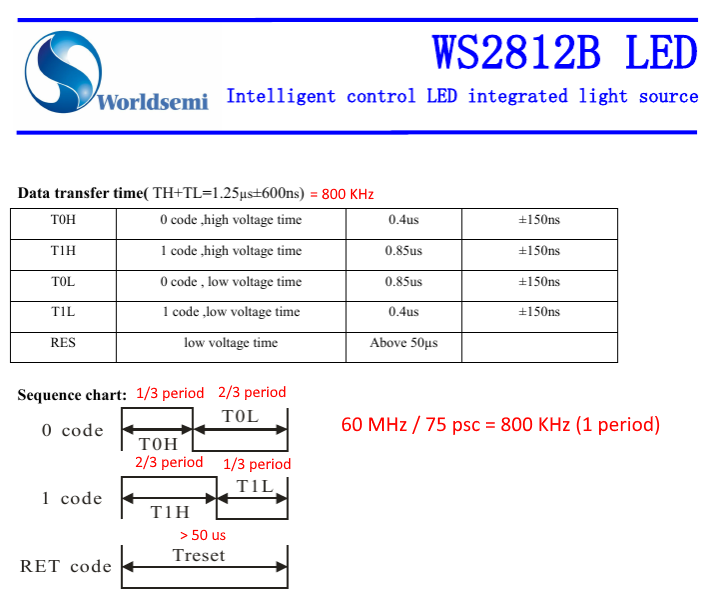
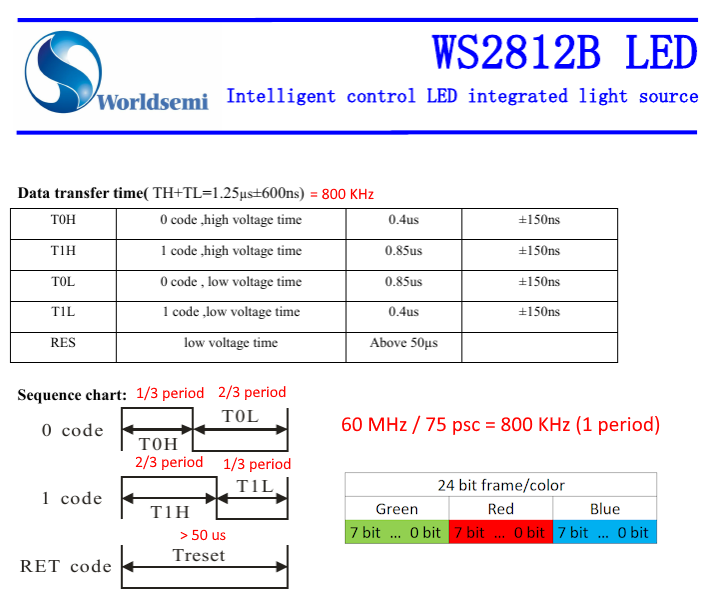
Add using DMA for filling PWM, convert from ADA to pulse_TIM3

Changed region(s): [[0.4635, 0.7736, 0.927, 0.9223]]

diff --git a/Core/Src/main.c b/Core/Src/main.c
@@ -44,16 +44,24 @@
 
 /* Private variables ---------------------------------------------------------*/
 TIM_HandleTypeDef htim3;
+DMA_HandleTypeDef hdma_tim3_ch2;
 
 /* USER CODE BEGIN PV */
 uint8_t MainUsbRxBuffer[RX_USB_DATA_SIZE],
 		MainUsbTxBuffer[TX_USB_DATA_SIZE] = "Ada\n";
+
+uint8_t PwmValue[LED_BITS_NUM]; // Buffer for TIM3 DMA; +50 for RET code (62.5 us)
+
 uint32_t RxBufferSize = 0;
+
+struct RGB_LED LED_data[LED_NUM];
+
 /* USER CODE END PV */
 
 /* Private function prototypes -----------------------------------------------*/
 void SystemClock_Config(void);
 static void MX_GPIO_Init(void);
+static void MX_DMA_Init(void);
 static void MX_TIM3_Init(void);
 /* USER CODE BEGIN PFP */
 
@@ -92,6 +100,7 @@ int main(void)
 
   /* Initialize all configured peripherals */
   MX_GPIO_Init();
+  MX_DMA_Init();
   MX_TIM3_Init();
   MX_USB_DEVICE_Init();
   /* USER CODE BEGIN 2 */
@@ -100,9 +109,6 @@ int main(void)
 
   /* Infinite loop */
   /* USER CODE BEGIN WHILE */
-  TIM3->CCR2 = 233; // Pulse channel 2
-  HAL_TIM_PWM_Start_IT(&htim3, TIM_CHANNEL_2);
-
   while (1)
   {
     /* USER CODE END WHILE */
@@ -112,9 +118,12 @@ int main(void)
 	if(RxBufferSize >= EXP_ADA_SIZE){
 		// protocol ada processing
 
-		uint32_t trim_index = Processing_rx_buffer(&MainUsbRxBuffer[0], RxBufferSize);
+		uint32_t trim_index = Processing_rx_buffer(&MainUsbRxBuffer[0], RxBufferSize, &LED_data[0]);
 
 		uint32_t shift_index = 0;
+
+		ConvertColorToTim(&LED_data[0], &PwmValue[0]);
+		HAL_TIM_PWM_Start_DMA(&htim3, TIM_CHANNEL_2, &PwmValue, LED_BITS_NUM);
 
 		while(trim_index < RxBufferSize){ // Shift all buffer closer to the beginning
 			MainUsbRxBuffer[shift_index] = MainUsbRxBuffer[trim_index];
@@ -192,9 +201,9 @@ static void MX_TIM3_Init(void)
 
   /* USER CODE END TIM3_Init 1 */
   htim3.Instance = TIM3;
-  htim3.Init.Prescaler = 7500-1;
+  htim3.Init.Prescaler = 75-1;
   htim3.Init.CounterMode = TIM_COUNTERMODE_UP;
-  htim3.Init.Period = 800-1;
+  htim3.Init.Period = 3-1;
   htim3.Init.ClockDivision = TIM_CLOCKDIVISION_DIV1;
   htim3.Init.AutoReloadPreload = TIM_AUTORELOAD_PRELOAD_ENABLE;
   if (HAL_TIM_PWM_Init(&htim3) != HAL_OK)
@@ -208,7 +217,7 @@ static void MX_TIM3_Init(void)
     Error_Handler();
   }
   sConfigOC.OCMode = TIM_OCMODE_PWM1;
-  sConfigOC.Pulse = 533;
+  sConfigOC.Pulse = 0;
   sConfigOC.OCPolarity = TIM_OCPOLARITY_HIGH;
   sConfigOC.OCFastMode = TIM_OCFAST_DISABLE;
   if (HAL_TIM_PWM_ConfigChannel(&htim3, &sConfigOC, TIM_CHANNEL_2) != HAL_OK)
@@ -219,6 +228,22 @@ static void MX_TIM3_Init(void)
 
   /* USER CODE END TIM3_Init 2 */
   HAL_TIM_MspPostInit(&htim3);
+
+}
+
+/**
+  * Enable DMA controller clock
+  */
+static void MX_DMA_Init(void)
+{
+
+  /* DMA controller clock enable */
+  __HAL_RCC_DMA1_CLK_ENABLE();
+
+  /* DMA interrupt init */
+  /* DMA1_Stream5_IRQn interrupt configuration */
+  HAL_NVIC_SetPriority(DMA1_Stream5_IRQn, 0, 0);
+  HAL_NVIC_EnableIRQ(DMA1_Stream5_IRQn);
 
 }
 

diff --git a/Core/Src/stm32f4xx_hal_msp.c b/Core/Src/stm32f4xx_hal_msp.c
@@ -24,6 +24,7 @@
 /* USER CODE BEGIN Includes */
 
 /* USER CODE END Includes */
+extern DMA_HandleTypeDef hdma_tim3_ch2;
 
 /* Private typedef -----------------------------------------------------------*/
 /* USER CODE BEGIN TD */
@@ -94,6 +95,26 @@ void HAL_TIM_PWM_MspInit(TIM_HandleTypeDef* htim_pwm)
   /* USER CODE END TIM3_MspInit 0 */
     /* Peripheral clock enable */
     __HAL_RCC_TIM3_CLK_ENABLE();
+
+    /* TIM3 DMA Init */
+    /* TIM3_CH2 Init */
+    hdma_tim3_ch2.Instance = DMA1_Stream5;
+    hdma_tim3_ch2.Init.Channel = DMA_CHANNEL_5;
+    hdma_tim3_ch2.Init.Direction = DMA_MEMORY_TO_PERIPH;
+    hdma_tim3_ch2.Init.PeriphInc = DMA_PINC_DISABLE;
+    hdma_tim3_ch2.Init.MemInc = DMA_MINC_ENABLE;
+    hdma_tim3_ch2.Init.PeriphDataAlignment = DMA_PDATAALIGN_HALFWORD;
+    hdma_tim3_ch2.Init.MemDataAlignment = DMA_MDATAALIGN_HALFWORD;
+    hdma_tim3_ch2.Init.Mode = DMA_NORMAL;
+    hdma_tim3_ch2.Init.Priority = DMA_PRIORITY_MEDIUM;
+    hdma_tim3_ch2.Init.FIFOMode = DMA_FIFOMODE_DISABLE;
+    if (HAL_DMA_Init(&hdma_tim3_ch2) != HAL_OK)
+    {
+      Error_Handler();
+    }
+
+    __HAL_LINKDMA(htim_pwm,hdma[TIM_DMA_ID_CC2],hdma_tim3_ch2);
+
   /* USER CODE BEGIN TIM3_MspInit 1 */
 
   /* USER CODE END TIM3_MspInit 1 */
@@ -142,6 +163,9 @@ void HAL_TIM_PWM_MspDeInit(TIM_HandleTypeDef* htim_pwm)
   /* USER CODE END TIM3_MspDeInit 0 */
     /* Peripheral clock disable */
     __HAL_RCC_TIM3_CLK_DISABLE();
+
+    /* TIM3 DMA DeInit */
+    HAL_DMA_DeInit(htim_pwm->hdma[TIM_DMA_ID_CC2]);
   /* USER CODE BEGIN TIM3_MspDeInit 1 */
 
   /* USER CODE END TIM3_MspDeInit 1 */

diff --git a/Core/Src/stm32f4xx_it.c b/Core/Src/stm32f4xx_it.c
@@ -56,6 +56,7 @@
 
 /* External variables --------------------------------------------------------*/
 extern PCD_HandleTypeDef hpcd_USB_OTG_FS;
+extern DMA_HandleTypeDef hdma_tim3_ch2;
 /* USER CODE BEGIN EV */
 
 /* USER CODE END EV */
@@ -197,6 +198,20 @@ void SysTick_Handler(void)
 /* For the available peripheral interrupt handler names,                      */
 /* please refer to the startup file (startup_stm32f4xx.s).                    */
 /******************************************************************************/
+
+/**
+  * @brief This function handles DMA1 stream5 global interrupt.
+  */
+void DMA1_Stream5_IRQHandler(void)
+{
+  /* USER CODE BEGIN DMA1_Stream5_IRQn 0 */
+
+  /* USER CODE END DMA1_Stream5_IRQn 0 */
+  HAL_DMA_IRQHandler(&hdma_tim3_ch2);
+  /* USER CODE BEGIN DMA1_Stream5_IRQn 1 */
+
+  /* USER CODE END DMA1_Stream5_IRQn 1 */
+}
 
 /**
   * @brief This function handles USB On The Go FS global interrupt.

diff --git a/Core/Src/WS2812.c b/Core/Src/WS2812.c
@@ -5,4 +5,24 @@
  *      Author: Kortep
  */
 
+#include "main.h"
 
+void ConvertColorToTim(struct RGB_LED* LED_data, uint8_t* PwmValue)
+{
+	uint32_t i, j, PwmIndex = 0, col = 0;
+	for(i = 0; i < LED_NUM; i ++)
+	{
+		col = (LED_data[i].g << 23) | (LED_data[i].r << 16) | (LED_data[i].b);
+		for(j = 23; j >= 0; j --)
+		{
+			if(col & (1 << j))  // We check every bit
+				PwmValue[PwmIndex] = 2; // Filling PWM 2/3
+			else
+				PwmValue[PwmIndex] = 1; // Filling PWM 1/3
+			PwmIndex ++;
+		}
+	}
+
+	for(i = 0; i < 50; i ++, PwmIndex ++) // Create 62.5 us delay
+		PwmValue[PwmIndex] = 0;
+}

diff --git a/Core/Src/Ada.c b/Core/Src/Ada.c
@@ -8,14 +8,12 @@
 #include <stm32f4xx_hal.h>
 #include "main.h"
 
-struct RGB_LED LED_data[LED_NUM];
-
 /*
  * Function convert raw rgb value to array rgb
  * arg: StartIndex - pointer to an rx buffer, len - length rx buffer
  * return: The length processed by the function
  */
-uint32_t Processing_rx_buffer(uint8_t* StartIndex, uint32_t len)
+uint32_t Processing_rx_buffer(uint8_t* StartIndex, uint32_t len, struct RGB_LED* LED_data)
 {
 	uint32_t i = 0, Shift;
 	for(i = 0; i < len - 2; i++)

diff --git a/Core/Inc/main.h b/Core/Inc/main.h
@@ -65,12 +65,15 @@ void Error_Handler(void);
 #define LED_NUM 98
 // expected message length
 #define EXP_ADA_SIZE LED_NUM * 3 + 5
+// For dma array
+#define LED_BITS_NUM LED_NUM * 3 * 8 + 50
 
 struct RGB_LED {
-    int r;
-    int g;
-    int b;
+    uint8_t r;
+    uint8_t g;
+    uint8_t b;
 };
+
 
 /* USER CODE END Private defines */
 

diff --git a/Core/Inc/Ada.h b/Core/Inc/Ada.h
@@ -8,6 +8,6 @@
 #ifndef INC_ADA_H_
 #define INC_ADA_H_
 
-uint32_t Processing_rx_buffer(uint8_t* StartIndex, uint32_t len);
+uint32_t Processing_rx_buffer(uint8_t* StartIndex, uint32_t len, struct RGB_LED* LED_data);
 
 #endif /* INC_ADA_H_ */

diff --git a/Core/Inc/stm32f4xx_it.h b/Core/Inc/stm32f4xx_it.h
@@ -55,6 +55,7 @@ void SVC_Handler(void);
 void DebugMon_Handler(void);
 void PendSV_Handler(void);
 void SysTick_Handler(void);
+void DMA1_Stream5_IRQHandler(void);
 void OTG_FS_IRQHandler(void);
 /* USER CODE BEGIN EFP */
 
